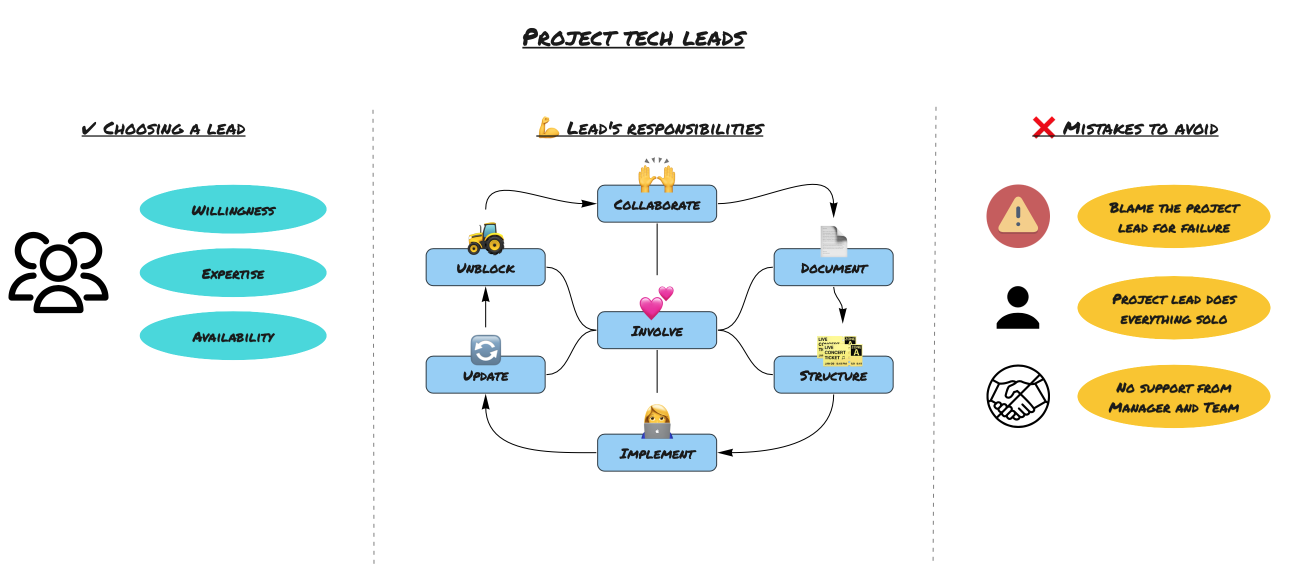
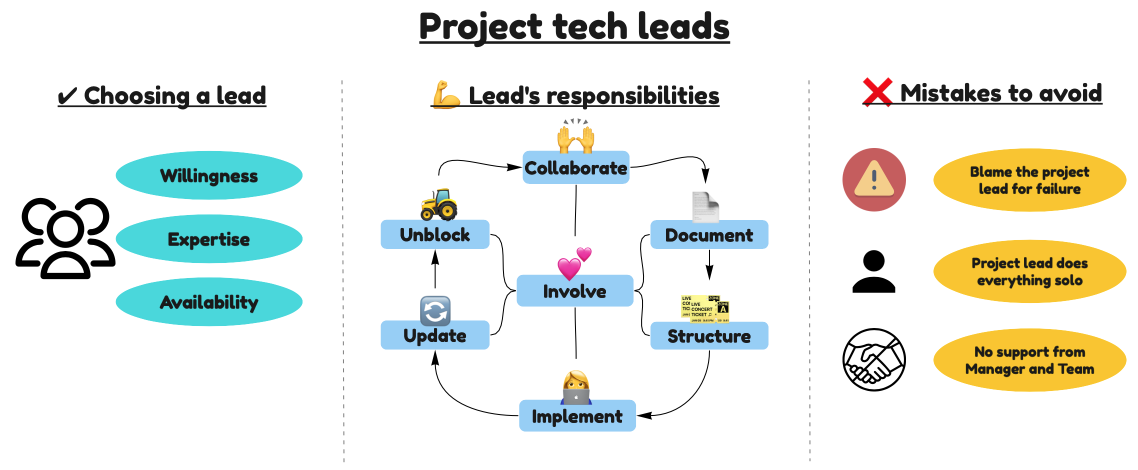
Update Project Leads infographics

diff --git a/people/leadership/project-leads.md b/people/leadership/project-leads.md
@@ -48,7 +48,7 @@ It is highly recommended to rotate the role of the Tech Lead from project to pro
 
 The role comes with a set of responsibilities or expectations. In a nutshell those include:
 
-1. ✋ **Collaborate** to collect all required information
+1. 🙌 **Collaborate** to collect all required information
 2. 📑 **Document** the solutions and decisions
 3. 🎫 **Structure** the tasks and provide estimates
 4. 👩💻 **Implement** their part of work or **delegate** it
@@ -58,7 +58,7 @@ The role comes with a set of responsibilities or expectations. In a nutshell tho
 
 Let's elaborate on each of these responsibilities to make them more clear.
 
-### ✋ Collaborate to collect all required information
+### 🙌 Collaborate to collect all required information
 
 Project Lead is a driver of project-related conversations, as their goal is to ensure that all information required for the project to succeed is collected and shared among all the participants.
 
